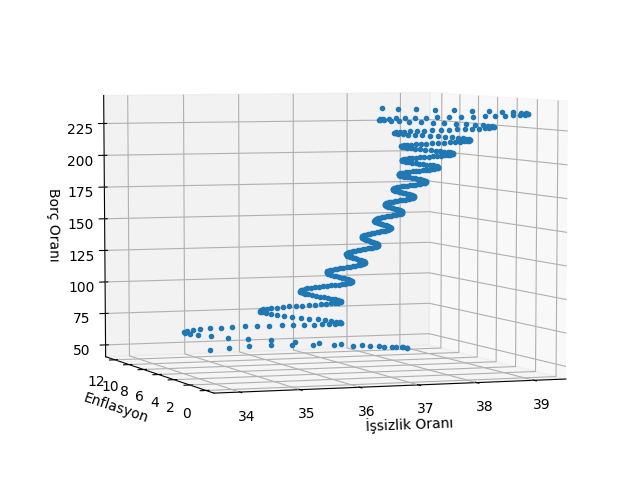
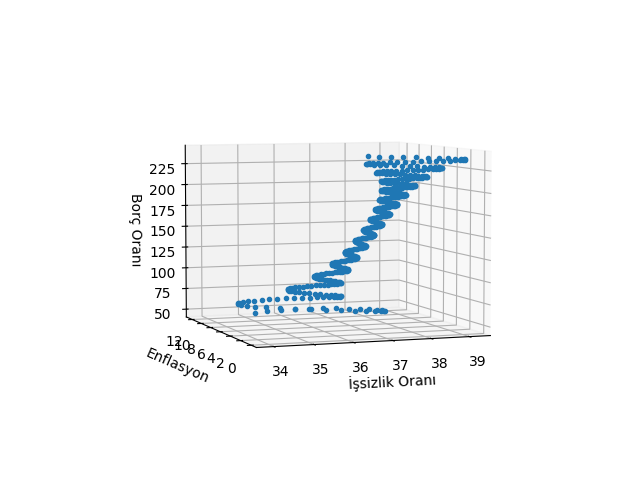
-

diff --git a/chaos/chaos_app04/chaos_app04.html b/chaos/chaos_app04/chaos_app04.html
@@ -214,7 +214,7 @@ class="math inline">\(1/\tau\)</span> kullanabilirdik,</p>
 class="math inline">\(1-e^{-1}\)</span> elde ederiz,</p>
 <div class="sourceCode" id="cb1"><pre
 class="sourceCode python"><code class="sourceCode python"><span id="cb1-1"><a href="#cb1-1" aria-hidden="true" tabindex="-1"></a><span class="bu">print</span> (<span class="dv">1</span><span class="op">-</span>np.exp(<span class="op">-</span><span class="dv">1</span>))</span></code></pre></div>
-<pre><code>0.632120558829</code></pre>
+<pre class="text"><code>0.6321205588285577</code></pre>
 <p>İşte <span class="math inline">\(\tau\)</span> değeri ulaşılmaya
 çalışan değerin kabaca yüzde 63’üne gelmek için geçmesi gereken gündür
 tanımı buradan geliyor.</p>
@@ -244,7 +244,7 @@ class="math inline">\(N,a\)</span> değişkenleri bu sistemde yok, çünkü
 bu kavramlar modelde sadece sabitleri üzerinden dahil edildiler.</p>
 <div class="sourceCode" id="cb3"><pre
 class="sourceCode python"><code class="sourceCode python"><span id="cb3-1"><a href="#cb3-1" aria-hidden="true" tabindex="-1"></a><span class="im">import</span> scipy <span class="im">as</span> sp</span>
-<span id="cb3-2"><a href="#cb3-2" aria-hidden="true" tabindex="-1"></a><span class="im">from</span> scipy.integrate.odepack <span class="im">import</span> odeint</span>
+<span id="cb3-2"><a href="#cb3-2" aria-hidden="true" tabindex="-1"></a><span class="im">from</span> scipy.integrate <span class="im">import</span> odeint</span>
 <span id="cb3-3"><a href="#cb3-3" aria-hidden="true" tabindex="-1"></a></span>
 <span id="cb3-4"><a href="#cb3-4" aria-hidden="true" tabindex="-1"></a><span class="kw">def</span> rhs(u,t,alpha, beta, delta, nu, r_b, s, tau_p, tau_i, x_i, y_i, s_i, m_i, x_w, y_w, s_w, m_w):</span>
 <span id="cb3-5"><a href="#cb3-5" aria-hidden="true" tabindex="-1"></a>    lam, omega, d, i <span class="op">=</span> u</span>
@@ -286,7 +286,7 @@ class="sourceCode python"><code class="sourceCode python"><span id="cb3-1"><a hr
 <span id="cb3-41"><a href="#cb3-41" aria-hidden="true" tabindex="-1"></a>arg0 <span class="op">=</span> (alpha, beta, delta, nu, r_b, s, tau_p, tau_i, x_i, y_i, s_i, m_i, x_w, y_w, s_w, m_w)</span>
 <span id="cb3-42"><a href="#cb3-42" aria-hidden="true" tabindex="-1"></a></span>
 <span id="cb3-43"><a href="#cb3-43" aria-hidden="true" tabindex="-1"></a>T<span class="op">=</span><span class="fl">80.0</span></span>
-<span id="cb3-44"><a href="#cb3-44" aria-hidden="true" tabindex="-1"></a>t<span class="op">=</span>np.linspace(<span class="fl">0.0</span>,T,<span class="fl">1000.0</span>)</span>
+<span id="cb3-44"><a href="#cb3-44" aria-hidden="true" tabindex="-1"></a>t<span class="op">=</span>np.linspace(<span class="fl">0.0</span>,T,<span class="dv">1000</span>)</span>
 <span id="cb3-45"><a href="#cb3-45" aria-hidden="true" tabindex="-1"></a></span>
 <span id="cb3-46"><a href="#cb3-46" aria-hidden="true" tabindex="-1"></a>res<span class="op">=</span>odeint(rhs,[lambda0, omega0, d0, i0],t,args<span class="op">=</span>arg0)</span>
 <span id="cb3-47"><a href="#cb3-47" aria-hidden="true" tabindex="-1"></a>lambda1,omega1,d1,i1<span class="op">=</span>res[:, <span class="dv">0</span>],res[:, <span class="dv">1</span>],res[:, <span class="dv">2</span>],res[:, <span class="dv">3</span>]</span></code></pre></div>
@@ -300,7 +300,8 @@ class="sourceCode python"><code class="sourceCode python"><span id="cb5-1"><a hr
 <span id="cb5-2"><a href="#cb5-2" aria-hidden="true" tabindex="-1"></a>plt.xlabel(<span class="st">u&#39;Zaman (Sene)&#39;</span>)</span>
 <span id="cb5-3"><a href="#cb5-3" aria-hidden="true" tabindex="-1"></a>plt.ylabel(<span class="st">u&#39;Özel Borcun GSYH İçinde Oranı&#39;</span>)</span>
 <span id="cb5-4"><a href="#cb5-4" aria-hidden="true" tabindex="-1"></a>plt.savefig(<span class="st">&#39;chaos_app04_02.png&#39;</span>)</span></code></pre></div>
-<p><img src="chaos_app04_01.png" /> <img src="chaos_app04_02.png" /></p>
+<p><img src="chaos_app04_01.png" /></p>
+<p><img src="chaos_app04_02.png" /></p>
 <div class="sourceCode" id="cb6"><pre
 class="sourceCode python"><code class="sourceCode python"><span id="cb6-1"><a href="#cb6-1" aria-hidden="true" tabindex="-1"></a>last<span class="op">=</span><span class="dv">500</span><span class="op">;</span></span>
 <span id="cb6-2"><a href="#cb6-2" aria-hidden="true" tabindex="-1"></a>x1<span class="op">=</span><span class="fl">100.0</span><span class="op">*</span>(<span class="fl">1.0</span><span class="op">-</span>lambda1[:last])<span class="op">;</span></span>
@@ -309,14 +310,13 @@ class="sourceCode python"><code class="sourceCode python"><span id="cb6-1"><a hr
 <span id="cb6-5"><a href="#cb6-5" aria-hidden="true" tabindex="-1"></a></span>
 <span id="cb6-6"><a href="#cb6-6" aria-hidden="true" tabindex="-1"></a><span class="im">from</span> mpl_toolkits.mplot3d <span class="im">import</span> Axes3D</span>
 <span id="cb6-7"><a href="#cb6-7" aria-hidden="true" tabindex="-1"></a><span class="im">from</span> matplotlib <span class="im">import</span> cm</span>
-<span id="cb6-8"><a href="#cb6-8" aria-hidden="true" tabindex="-1"></a>fig <span class="op">=</span> plt.figure()</span>
-<span id="cb6-9"><a href="#cb6-9" aria-hidden="true" tabindex="-1"></a>ax <span class="op">=</span> Axes3D(fig)</span>
-<span id="cb6-10"><a href="#cb6-10" aria-hidden="true" tabindex="-1"></a>ax.plot(x1,x2,x3,<span class="st">&#39;.&#39;</span>, zs<span class="op">=</span><span class="dv">0</span>,zdir<span class="op">=</span><span class="st">&#39;z&#39;</span>, label<span class="op">=</span><span class="st">&#39;zs=0, zdir=z&#39;</span>)</span>
-<span id="cb6-11"><a href="#cb6-11" aria-hidden="true" tabindex="-1"></a>ax.set_xlabel(<span class="st">u&#39;İşsizlik Oranı&#39;</span>)</span>
-<span id="cb6-12"><a href="#cb6-12" aria-hidden="true" tabindex="-1"></a>ax.set_ylabel(<span class="st">u&#39;Enflasyon&#39;</span>)</span>
-<span id="cb6-13"><a href="#cb6-13" aria-hidden="true" tabindex="-1"></a>ax.set_zlabel(<span class="st">u&#39;Borç Oranı&#39;</span>)</span>
-<span id="cb6-14"><a href="#cb6-14" aria-hidden="true" tabindex="-1"></a>ax.view_init(elev<span class="op">=</span><span class="dv">5</span>, azim<span class="op">=</span><span class="dv">250</span>)</span>
-<span id="cb6-15"><a href="#cb6-15" aria-hidden="true" tabindex="-1"></a>plt.savefig(<span class="st">&#39;chaos_app04_03.png&#39;</span>)</span></code></pre></div>
+<span id="cb6-8"><a href="#cb6-8" aria-hidden="true" tabindex="-1"></a>fig, ax <span class="op">=</span> plt.subplots(<span class="dv">1</span>, <span class="dv">1</span>, subplot_kw<span class="op">=</span>{<span class="st">&#39;projection&#39;</span>: <span class="st">&#39;3d&#39;</span>})</span>
+<span id="cb6-9"><a href="#cb6-9" aria-hidden="true" tabindex="-1"></a>ax.plot(x1,x2,x3,<span class="st">&#39;.&#39;</span>)</span>
+<span id="cb6-10"><a href="#cb6-10" aria-hidden="true" tabindex="-1"></a>ax.set_xlabel(<span class="st">u&#39;İşsizlik Oranı&#39;</span>)</span>
+<span id="cb6-11"><a href="#cb6-11" aria-hidden="true" tabindex="-1"></a>ax.set_ylabel(<span class="st">u&#39;Enflasyon&#39;</span>)</span>
+<span id="cb6-12"><a href="#cb6-12" aria-hidden="true" tabindex="-1"></a>ax.set_zlabel(<span class="st">u&#39;Borç Oranı&#39;</span>)</span>
+<span id="cb6-13"><a href="#cb6-13" aria-hidden="true" tabindex="-1"></a>ax.view_init(elev<span class="op">=</span><span class="dv">5</span>, azim<span class="op">=</span><span class="dv">250</span>)</span>
+<span id="cb6-14"><a href="#cb6-14" aria-hidden="true" tabindex="-1"></a>plt.savefig(<span class="st">&#39;chaos_app04_03.png&#39;</span>)</span></code></pre></div>
 <p><img src="chaos_app04_03.png" /></p>
 <p>Sistemin sayısal çözümünü yapınca olanları görüyoruz (kod [3]’ü baz
 aldı). Belli bir “büyük ılımlılık” sonrası enflasyon çakılıyor, ve borç

diff --git a/chaos/chaos_app04/enflasyon.html b/chaos/chaos_app04/enflasyon.html
@@ -214,7 +214,7 @@ class="math inline">\(1/\tau\)</span> kullanabilirdik,</p>
 class="math inline">\(1-e^{-1}\)</span> elde ederiz,</p>
 <div class="sourceCode" id="cb1"><pre
 class="sourceCode python"><code class="sourceCode python"><span id="cb1-1"><a href="#cb1-1" aria-hidden="true" tabindex="-1"></a><span class="bu">print</span> (<span class="dv">1</span><span class="op">-</span>np.exp(<span class="op">-</span><span class="dv">1</span>))</span></code></pre></div>
-<pre><code>0.632120558829</code></pre>
+<pre class="text"><code>0.6321205588285577</code></pre>
 <p>İşte <span class="math inline">\(\tau\)</span> değeri ulaşılmaya
 çalışan değerin kabaca yüzde 63’üne gelmek için geçmesi gereken gündür
 tanımı buradan geliyor.</p>
@@ -244,7 +244,7 @@ class="math inline">\(N,a\)</span> değişkenleri bu sistemde yok, çünkü
 bu kavramlar modelde sadece sabitleri üzerinden dahil edildiler.</p>
 <div class="sourceCode" id="cb3"><pre
 class="sourceCode python"><code class="sourceCode python"><span id="cb3-1"><a href="#cb3-1" aria-hidden="true" tabindex="-1"></a><span class="im">import</span> scipy <span class="im">as</span> sp</span>
-<span id="cb3-2"><a href="#cb3-2" aria-hidden="true" tabindex="-1"></a><span class="im">from</span> scipy.integrate.odepack <span class="im">import</span> odeint</span>
+<span id="cb3-2"><a href="#cb3-2" aria-hidden="true" tabindex="-1"></a><span class="im">from</span> scipy.integrate <span class="im">import</span> odeint</span>
 <span id="cb3-3"><a href="#cb3-3" aria-hidden="true" tabindex="-1"></a></span>
 <span id="cb3-4"><a href="#cb3-4" aria-hidden="true" tabindex="-1"></a><span class="kw">def</span> rhs(u,t,alpha, beta, delta, nu, r_b, s, tau_p, tau_i, x_i, y_i, s_i, m_i, x_w, y_w, s_w, m_w):</span>
 <span id="cb3-5"><a href="#cb3-5" aria-hidden="true" tabindex="-1"></a>    lam, omega, d, i <span class="op">=</span> u</span>
@@ -286,7 +286,7 @@ class="sourceCode python"><code class="sourceCode python"><span id="cb3-1"><a hr
 <span id="cb3-41"><a href="#cb3-41" aria-hidden="true" tabindex="-1"></a>arg0 <span class="op">=</span> (alpha, beta, delta, nu, r_b, s, tau_p, tau_i, x_i, y_i, s_i, m_i, x_w, y_w, s_w, m_w)</span>
 <span id="cb3-42"><a href="#cb3-42" aria-hidden="true" tabindex="-1"></a></span>
 <span id="cb3-43"><a href="#cb3-43" aria-hidden="true" tabindex="-1"></a>T<span class="op">=</span><span class="fl">80.0</span></span>
-<span id="cb3-44"><a href="#cb3-44" aria-hidden="true" tabindex="-1"></a>t<span class="op">=</span>np.linspace(<span class="fl">0.0</span>,T,<span class="fl">1000.0</span>)</span>
+<span id="cb3-44"><a href="#cb3-44" aria-hidden="true" tabindex="-1"></a>t<span class="op">=</span>np.linspace(<span class="fl">0.0</span>,T,<span class="dv">1000</span>)</span>
 <span id="cb3-45"><a href="#cb3-45" aria-hidden="true" tabindex="-1"></a></span>
 <span id="cb3-46"><a href="#cb3-46" aria-hidden="true" tabindex="-1"></a>res<span class="op">=</span>odeint(rhs,[lambda0, omega0, d0, i0],t,args<span class="op">=</span>arg0)</span>
 <span id="cb3-47"><a href="#cb3-47" aria-hidden="true" tabindex="-1"></a>lambda1,omega1,d1,i1<span class="op">=</span>res[:, <span class="dv">0</span>],res[:, <span class="dv">1</span>],res[:, <span class="dv">2</span>],res[:, <span class="dv">3</span>]</span></code></pre></div>
@@ -300,7 +300,8 @@ class="sourceCode python"><code class="sourceCode python"><span id="cb5-1"><a hr
 <span id="cb5-2"><a href="#cb5-2" aria-hidden="true" tabindex="-1"></a>plt.xlabel(<span class="st">u&#39;Zaman (Sene)&#39;</span>)</span>
 <span id="cb5-3"><a href="#cb5-3" aria-hidden="true" tabindex="-1"></a>plt.ylabel(<span class="st">u&#39;Özel Borcun GSYH İçinde Oranı&#39;</span>)</span>
 <span id="cb5-4"><a href="#cb5-4" aria-hidden="true" tabindex="-1"></a>plt.savefig(<span class="st">&#39;chaos_app04_02.png&#39;</span>)</span></code></pre></div>
-<p><img src="chaos_app04_01.png" /> <img src="chaos_app04_02.png" /></p>
+<p><img src="chaos_app04_01.png" /></p>
+<p><img src="chaos_app04_02.png" /></p>
 <div class="sourceCode" id="cb6"><pre
 class="sourceCode python"><code class="sourceCode python"><span id="cb6-1"><a href="#cb6-1" aria-hidden="true" tabindex="-1"></a>last<span class="op">=</span><span class="dv">500</span><span class="op">;</span></span>
 <span id="cb6-2"><a href="#cb6-2" aria-hidden="true" tabindex="-1"></a>x1<span class="op">=</span><span class="fl">100.0</span><span class="op">*</span>(<span class="fl">1.0</span><span class="op">-</span>lambda1[:last])<span class="op">;</span></span>
@@ -309,14 +310,13 @@ class="sourceCode python"><code class="sourceCode python"><span id="cb6-1"><a hr
 <span id="cb6-5"><a href="#cb6-5" aria-hidden="true" tabindex="-1"></a></span>
 <span id="cb6-6"><a href="#cb6-6" aria-hidden="true" tabindex="-1"></a><span class="im">from</span> mpl_toolkits.mplot3d <span class="im">import</span> Axes3D</span>
 <span id="cb6-7"><a href="#cb6-7" aria-hidden="true" tabindex="-1"></a><span class="im">from</span> matplotlib <span class="im">import</span> cm</span>
-<span id="cb6-8"><a href="#cb6-8" aria-hidden="true" tabindex="-1"></a>fig <span class="op">=</span> plt.figure()</span>
-<span id="cb6-9"><a href="#cb6-9" aria-hidden="true" tabindex="-1"></a>ax <span class="op">=</span> Axes3D(fig)</span>
-<span id="cb6-10"><a href="#cb6-10" aria-hidden="true" tabindex="-1"></a>ax.plot(x1,x2,x3,<span class="st">&#39;.&#39;</span>, zs<span class="op">=</span><span class="dv">0</span>,zdir<span class="op">=</span><span class="st">&#39;z&#39;</span>, label<span class="op">=</span><span class="st">&#39;zs=0, zdir=z&#39;</span>)</span>
-<span id="cb6-11"><a href="#cb6-11" aria-hidden="true" tabindex="-1"></a>ax.set_xlabel(<span class="st">u&#39;İşsizlik Oranı&#39;</span>)</span>
-<span id="cb6-12"><a href="#cb6-12" aria-hidden="true" tabindex="-1"></a>ax.set_ylabel(<span class="st">u&#39;Enflasyon&#39;</span>)</span>
-<span id="cb6-13"><a href="#cb6-13" aria-hidden="true" tabindex="-1"></a>ax.set_zlabel(<span class="st">u&#39;Borç Oranı&#39;</span>)</span>
-<span id="cb6-14"><a href="#cb6-14" aria-hidden="true" tabindex="-1"></a>ax.view_init(elev<span class="op">=</span><span class="dv">5</span>, azim<span class="op">=</span><span class="dv">250</span>)</span>
-<span id="cb6-15"><a href="#cb6-15" aria-hidden="true" tabindex="-1"></a>plt.savefig(<span class="st">&#39;chaos_app04_03.png&#39;</span>)</span></code></pre></div>
+<span id="cb6-8"><a href="#cb6-8" aria-hidden="true" tabindex="-1"></a>fig, ax <span class="op">=</span> plt.subplots(<span class="dv">1</span>, <span class="dv">1</span>, subplot_kw<span class="op">=</span>{<span class="st">&#39;projection&#39;</span>: <span class="st">&#39;3d&#39;</span>})</span>
+<span id="cb6-9"><a href="#cb6-9" aria-hidden="true" tabindex="-1"></a>ax.plot(x1,x2,x3,<span class="st">&#39;.&#39;</span>)</span>
+<span id="cb6-10"><a href="#cb6-10" aria-hidden="true" tabindex="-1"></a>ax.set_xlabel(<span class="st">u&#39;İşsizlik Oranı&#39;</span>)</span>
+<span id="cb6-11"><a href="#cb6-11" aria-hidden="true" tabindex="-1"></a>ax.set_ylabel(<span class="st">u&#39;Enflasyon&#39;</span>)</span>
+<span id="cb6-12"><a href="#cb6-12" aria-hidden="true" tabindex="-1"></a>ax.set_zlabel(<span class="st">u&#39;Borç Oranı&#39;</span>)</span>
+<span id="cb6-13"><a href="#cb6-13" aria-hidden="true" tabindex="-1"></a>ax.view_init(elev<span class="op">=</span><span class="dv">5</span>, azim<span class="op">=</span><span class="dv">250</span>)</span>
+<span id="cb6-14"><a href="#cb6-14" aria-hidden="true" tabindex="-1"></a>plt.savefig(<span class="st">&#39;chaos_app04_03.png&#39;</span>)</span></code></pre></div>
 <p><img src="chaos_app04_03.png" /></p>
 <p>Sistemin sayısal çözümünü yapınca olanları görüyoruz (kod [3]’ü baz
 aldı). Belli bir “büyük ılımlılık” sonrası enflasyon çakılıyor, ve borç
